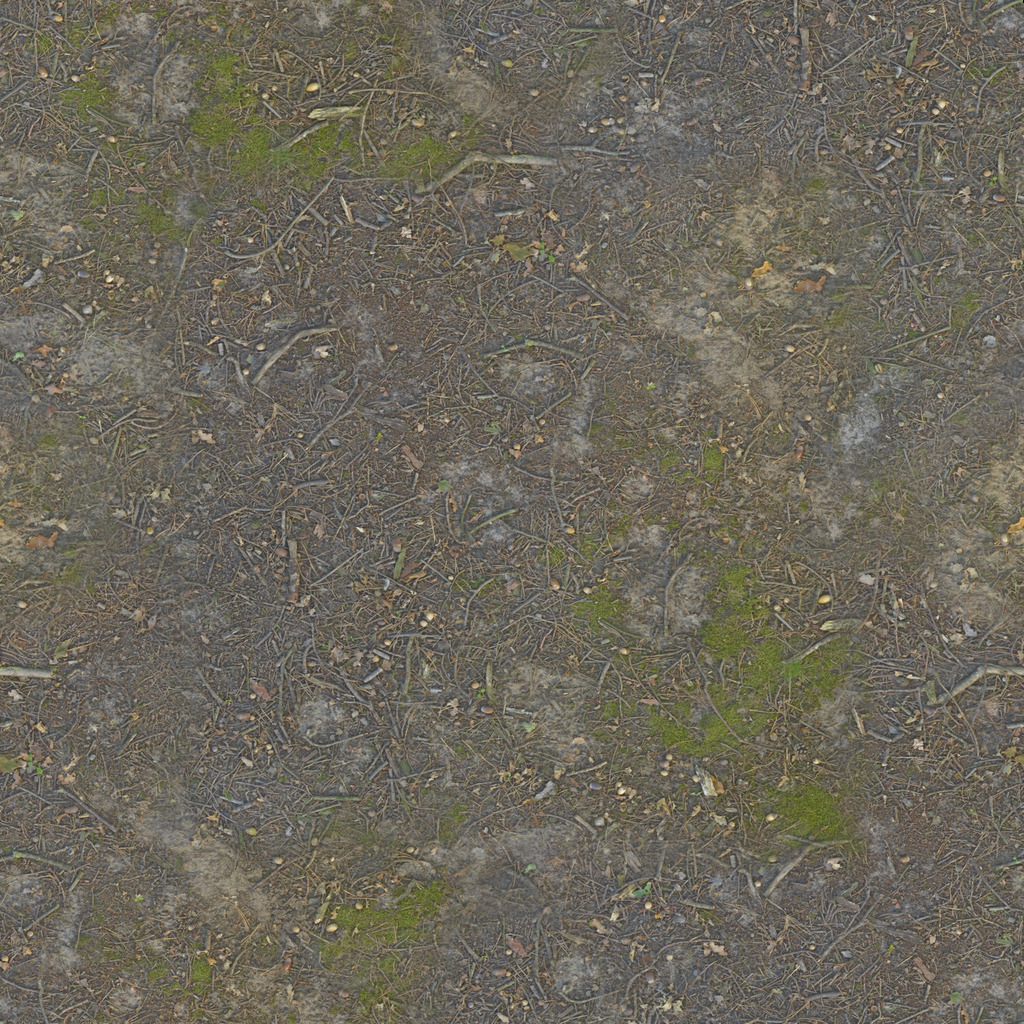
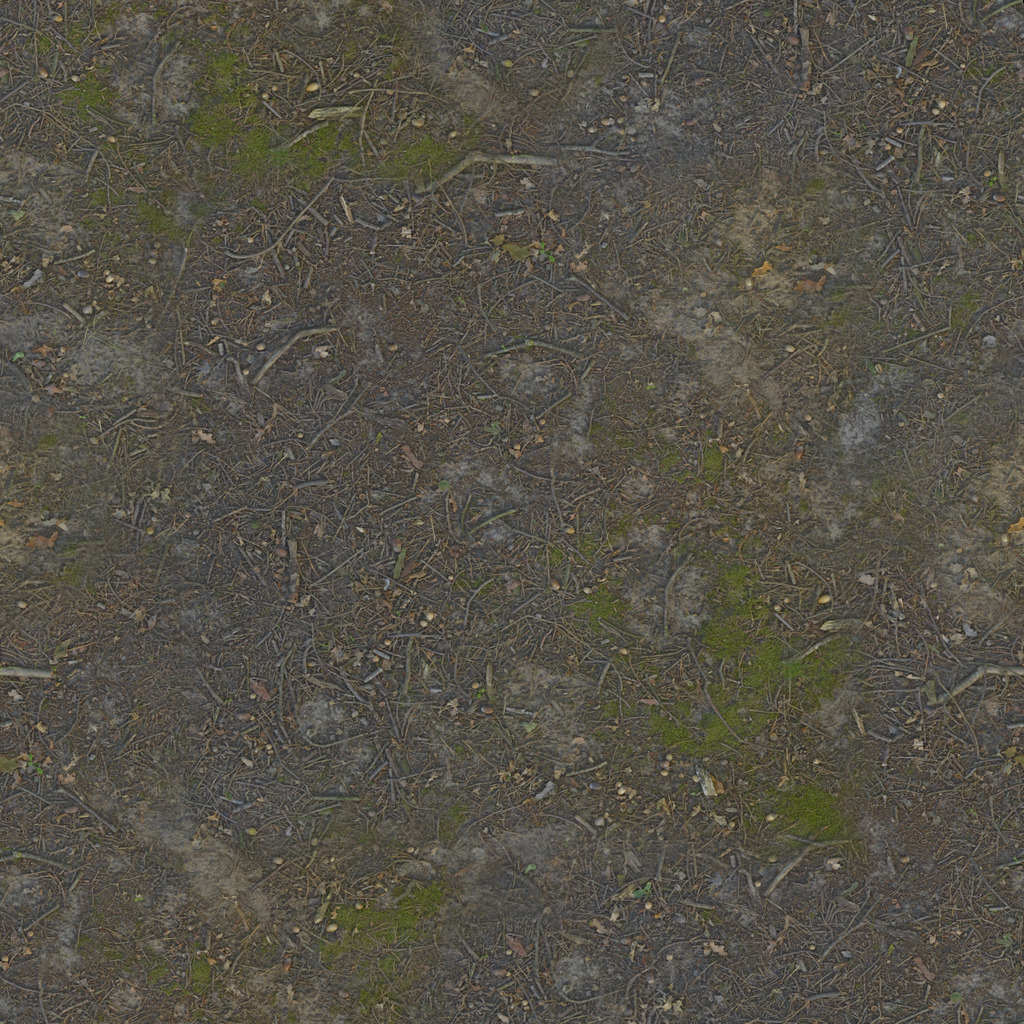
Земля белела днём: цвет читался как линейный, хотя хранится в sRGB
ГЛАВНАЯ ПРИЧИНА, найдена замером. Godot переводит sRGB в линейное только для
ИМПОРТИРОВАННЫХ текстур. Мы читаем файлы напрямую (иначе движок их не видит,
см. «No loader found»), и перевода не происходило: шейдер брал sRGB-значения
как линейные.

ИЗМЕРЕНО режимом «без освещения» (он показывает чистое альбедо):
   шейдер отдавал 0.445 при 0.208 в самой текстуре — более чем вдвое светлее.
   0.445 это ровно среднее значение текстуры В SRGB. Совпадение точное.
Земля буквально отражала вдвое больше света, чем ей положено, — отсюда
«днём белеет, как будто отражает солнце». Вечером при слабом свете это не
проявлялось, поэтому пользователь и заметил разницу между вечером и днём.
ПОЧИНЕНО: _mip_tex(path, is_color) переводит ЦВЕТНЫЕ карты в линейное.
Нормаль/шероховатость/высота/затенение — не цвет, они уже линейные, их
переводить нельзя.
ЗАМЕРЕНО ПОСЛЕ: альбедо 0.445 -> 0.195 (цель 0.21), яркость земли в кадре
0.807 -> 0.594.

ВТОРАЯ ПРИЧИНА: сама текстура была завышена как альбедо. Альбедо — измеримая
величина, а фотоснимок ею не является: у него нормализованная выдержка.
ИЗМЕРЕНО: основная текстура земли имела альбедо 0.298 — это СУХОЙ ПЕСОК
(0.30-0.40), а не трава по земле (0.18-0.25). tools/pack_materials.py теперь
калибрует яркость к справочной доле отражённого света, сохраняя оттенок:
Ground037 0.298->0.21, Ground023 0.119->0.13, Ground024 0.147->0.09.

ТРЕТЬЯ: рассеянный свет РОС с облачностью (1.25 -> 2.10) ровно настолько,
[…]

diff --git a/tools/pack_materials.py b/tools/pack_materials.py
@@ -24,6 +24,7 @@ import os
 import re
 import shutil
 
+import numpy as np
 from PIL import Image
 
 ROOT = os.path.join(os.path.dirname(__file__), "..")
@@ -33,6 +34,57 @@ DST = os.path.join(ROOT, "game2", "assets", "materials_game")
 # какая карта чем становится
 AS_PNG = ("NormalGL",)
 KEEP = ("Color", "NormalGL", "Roughness", "AmbientOcclusion", "Displacement")
+
+# --- КАЛИБРОВКА АЛЬБЕДО ---
+# ЗАЧЕМ. Альбедо — доля отражённого света, величина ИЗМЕРИМАЯ. Фотоснимок ею не
+# является: у него нормализованная выдержка, и как альбедо он почти всегда
+# завышен. ИЗМЕРЕНО на нашей основной текстуре: яркость 0.298 — это альбедо
+# СУХОГО ПЕСКА (0.30-0.40), а не травы по земле (0.18-0.25). Отсюда и жалоба
+# «днём земля белеет, как будто отражает солнце»: она буквально отражала
+# столько, сколько отражает песок.
+#
+# Справочные значения (доля отражённого света):
+#   влажная почва        0.05-0.10      зелёная трава     0.18-0.25
+#   сухая тёмная почва   0.10-0.15      сухая трава       0.25-0.30
+#   сухая светлая почва  0.15-0.25      песок сухой       0.30-0.40
+#
+# Приводим яркость каждой текстуры к её настоящему значению, СОХРАНЯЯ оттенок:
+# множитель один на все каналы, цвет снимка не выдумывается.
+ALBEDO_TARGET = {
+    "Ground037": 0.21,   # трава по влажной земле, июнь
+    "Ground023": 0.13,   # сухая бурая земля с листвой
+    "Ground024": 0.09,   # сырая лесная подстилка со мхом
+    "Ground020": 0.10,
+    "Ground030": 0.18,
+    "Ground062S": 0.20,  # песчано-гравийная дорожка
+    "Moss001": 0.12,
+    "Bricks038": 0.18, "Bricks084": 0.28, "Bricks090": 0.18,
+    "Bricks085": 0.18, "Bricks100": 0.26,
+    "PavingStones138": 0.22, "PavingStones139": 0.20,
+    "Rock046L": 0.18, "Rock064": 0.16, "Rocks025": 0.18,
+    "PaintedPlaster006": 0.30, "PaintedPlaster018": 0.30, "Concrete040": 0.25,
+}
+
+
+def to_linear(a):
+    return np.where(a <= 0.04045, a / 12.92, ((a + 0.055) / 1.055) ** 2.4)
+
+
+def to_srgb(a):
+    return np.where(a <= 0.0031308, a * 12.92, 1.055 * np.power(a, 1 / 2.4) - 0.055)
+
+
+def calibrate(im, target):
+    """Привести альбедо к измеренному значению, не трогая оттенок."""
+    a = np.asarray(im, np.float32) / 255.0
+    lin = to_linear(a)
+    lum = 0.2126 * lin[..., 0] + 0.7152 * lin[..., 1] + 0.0722 * lin[..., 2]
+    cur = float(lum.mean())
+    if cur <= 1e-6:
+        return im, cur, cur
+    k = target / cur
+    out = np.clip(to_srgb(np.clip(lin * k, 0.0, 1.0)) * 255.0, 0, 255)
+    return Image.fromarray(out.astype(np.uint8)), cur, target
 
 
 def role_of(name):
@@ -96,6 +148,7 @@ def main():
             continue
         out = os.path.join(DST, mat)
         got = []
+        note = []
         for f in sorted(os.listdir(d)):
             r = role_of(f)
             if r is None or r not in used[mat]:
@@ -113,6 +166,9 @@ def main():
             else:
                 # цвет в RGB, служебные карты в градациях серого — вчетверо легче
                 im = im.convert("RGB" if r == "Color" else "L")
+                if r == "Color" and mat in ALBEDO_TARGET:
+                    im, was, now = calibrate(im, ALBEDO_TARGET[mat])
+                    note.append("альбедо %.3f -> %.3f" % (was, now))
                 q = os.path.join(out, "%s.jpg" % r)
                 im.save(q, quality=args.quality, optimize=True, subsampling=0)
             total_dst += os.path.getsize(q)
@@ -120,7 +176,7 @@ def main():
             n_map += 1
         if got:
             n_mat += 1
-            print("  %-18s %s" % (mat, ", ".join(got)))
+            print("  %-18s %-46s %s" % (mat, ", ".join(got), "; ".join(note)))
 
     print("\nматериалов %d, карт %d" % (n_mat, n_map))
     print("было %.0f МБ  ->  стало %.1f МБ  (в %.0f раз легче)"
